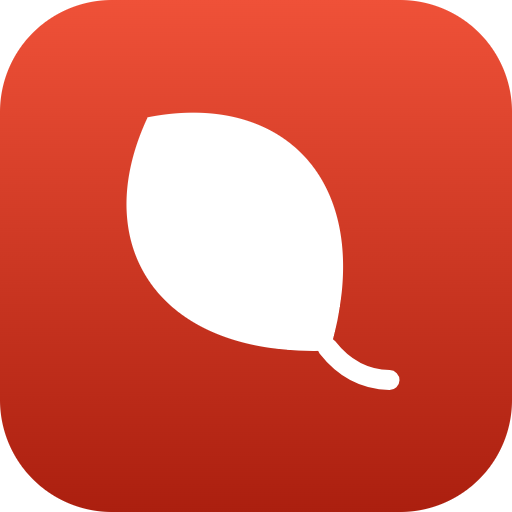
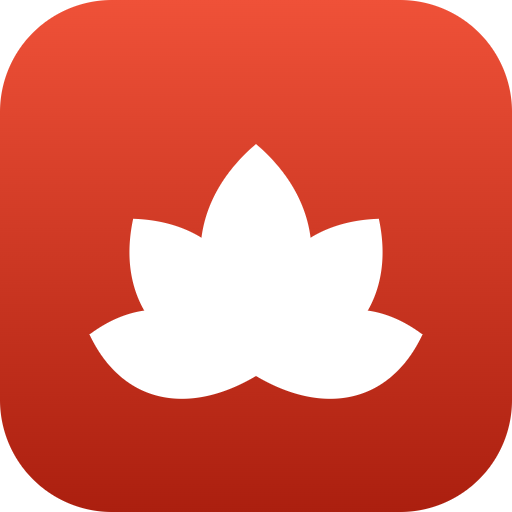
Pinch to zoom, and a lotus for the mark
Two fingers on the page now zoom it, and so does Ctrl with the wheel or
a trackpad pinch, which arrives as a wheel event with Ctrl held. Zooming
holds the point under the fingers still instead of keeping the scroll
fraction, so the page is pulled rather than jumped.

The gesture is caught on the scroller during capture, ahead of the
drawing handlers on the page layer, so a second finger turns a stroke
that had already begun into a pinch and removes what it had drawn. One
mouse notch is capped at the same 1.2 step as the zoom buttons: without
the cap a single notch leapt from 158% to 500%.

The mark is now a lotus in bloom: a centre petal with two pairs fanning
out from one base point. The petals are broad and cupped on purpose, as
narrow pointed ones radiating from a point read as a cannabis leaf,
which is what the seven petal version looked like.

Closing the window while the page is still loading now exits straight
away. It used to wait for an answer the renderer could not yet give and
then accuse the app of not responding.

Changed region(s): [[0.1562, 0.2188, 0.8438, 0.7812]]

diff --git a/src/tools/editor.ts b/src/tools/editor.ts
@@ -284,9 +284,9 @@ export const editorTool: Tool = {
       { class: 'ed-view' },
       pageLabel,
       h('span', { class: 'sep' }),
-      button(null, () => setZoom(zoom / 1.2), { icon: ZoomOut, title: 'Zoom out', kind: 'ghost' }),
+      button(null, () => setZoom(zoom / 1.2), { icon: ZoomOut, title: 'Zoom out (pinch, or Ctrl and the wheel)', kind: 'ghost' }),
       zoomLabel,
-      button(null, () => setZoom(zoom * 1.2), { icon: ZoomIn, title: 'Zoom in', kind: 'ghost' }),
+      button(null, () => setZoom(zoom * 1.2), { icon: ZoomIn, title: 'Zoom in (pinch, or Ctrl and the wheel)', kind: 'ghost' }),
       button('Fit', () => fitWidth(), { kind: 'ghost', title: 'Fit to width' }),
     );
     const tabsEl = h('div', { class: 'ed-tabs', role: 'tablist', 'aria-label': 'Open documents' });
@@ -813,6 +813,88 @@ export const editorTool: Tool = {
       const maxW = Math.max(...pages.map((p) => p.width), 1);
       setZoom(Math.min(2, (scroller.clientWidth - 48) / maxW));
     }
+
+    /**
+     * Zoom while holding the document point under (cx, cy) still, which is what
+     * makes a pinch feel like it is pulling the page rather than jumping.
+     */
+    function zoomAt(z: number, cx: number, cy: number) {
+      const next = Math.min(5, Math.max(0.25, z));
+      if (Math.abs(next - zoom) < 0.0005) return;
+      const r = scroller.getBoundingClientRect();
+      const k = next / zoom;
+      // Where the anchor currently sits inside the scrolled content.
+      const ax = scroller.scrollLeft + cx - r.left;
+      const ay = scroller.scrollTop + cy - r.top;
+      zoom = next;
+      zoomLabel.textContent = `${Math.round(zoom * 100)}%`;
+      pages.forEach(layoutPage);
+      scroller.scrollLeft = ax * k - (cx - r.left);
+      scroller.scrollTop = ay * k - (cy - r.top);
+      pages.filter(isVisible).forEach((p) => void draw(p));
+    }
+
+    /* ---------- pinch and ctrl+wheel zoom ---------- */
+
+    /** Live touch points, so two of them can be read as a pinch. */
+    const touchPoints = new Map<number, { x: number; y: number }>();
+    let pinch: { gap: number; zoom: number } | null = null;
+    const gapOf = (a: { x: number; y: number }, b: { x: number; y: number }) => Math.hypot(a.x - b.x, a.y - b.y);
+
+    /** Drop whatever the first finger had begun, so a pinch never leaves a mark. */
+    function cancelDrag() {
+      if (!drag) return;
+      const d = drag;
+      drag = null;
+      if (d.kind === 'rect' || d.kind === 'ink' || d.kind === 'line') {
+        anns = anns.filter((a) => a.id !== d.ann.id);
+      } else {
+        Object.assign(d.ann, d.orig);
+      }
+      renderLayer(pages[d.ann.page]);
+    }
+
+    // Captured on the scroller so a second finger is seen before the drawing
+    // handlers on the page layer get to act on it.
+    const onPinchDown = (e: PointerEvent) => {
+      if (e.pointerType !== 'touch') return;
+      touchPoints.set(e.pointerId, { x: e.clientX, y: e.clientY });
+      if (touchPoints.size !== 2) return;
+      const [a, b] = [...touchPoints.values()];
+      pinch = { gap: gapOf(a, b), zoom };
+      cancelDrag();
+      e.stopPropagation();
+    };
+    const onPinchMove = (e: PointerEvent) => {
+      if (e.pointerType !== 'touch' || !touchPoints.has(e.pointerId)) return;
+      touchPoints.set(e.pointerId, { x: e.clientX, y: e.clientY });
+      if (!pinch || touchPoints.size < 2 || pinch.gap <= 0) return;
+      e.preventDefault();
+      e.stopPropagation();
+      const [a, b] = [...touchPoints.values()];
+      zoomAt(pinch.zoom * (gapOf(a, b) / pinch.gap), (a.x + b.x) / 2, (a.y + b.y) / 2);
+    };
+    const onPinchUp = (e: PointerEvent) => {
+      if (e.pointerType !== 'touch') return;
+      touchPoints.delete(e.pointerId);
+      if (touchPoints.size < 2) pinch = null;
+    };
+    // A trackpad pinch reaches the page as a wheel event with ctrl held, which
+    // is also how Ctrl and the mouse wheel arrive. A trackpad sends a stream of
+    // small deltas while one mouse notch is a single large one, so the step is
+    // capped: without it a notch jumps several hundred percent at once.
+    const onZoomWheel = (e: WheelEvent) => {
+      if (!e.ctrlKey) return;
+      e.preventDefault();
+      const px = e.deltaMode === 1 ? e.deltaY * 16 : e.deltaMode === 2 ? e.deltaY * 400 : e.deltaY;
+      const step = Math.max(-40, Math.min(40, px));
+      zoomAt(zoom * Math.exp(-step / 200), e.clientX, e.clientY);
+    };
+    scroller.addEventListener('pointerdown', onPinchDown, { capture: true });
+    scroller.addEventListener('pointermove', onPinchMove, { capture: true, passive: false });
+    scroller.addEventListener('pointerup', onPinchUp, { capture: true });
+    scroller.addEventListener('pointercancel', onPinchUp, { capture: true });
+    scroller.addEventListener('wheel', onZoomWheel, { passive: false });
 
     function updatePageLabel() {
       const s = scroller.getBoundingClientRect();
@@ -1781,6 +1863,11 @@ export const editorTool: Tool = {
       document.removeEventListener('keydown', onKey);
       document.removeEventListener('pointerup', onPointerUp);
       window.removeEventListener('resize', onResize);
+      scroller.removeEventListener('pointerdown', onPinchDown, { capture: true });
+      scroller.removeEventListener('pointermove', onPinchMove, { capture: true });
+      scroller.removeEventListener('pointerup', onPinchUp, { capture: true });
+      scroller.removeEventListener('pointercancel', onPinchUp, { capture: true });
+      scroller.removeEventListener('wheel', onZoomWheel);
       window.removeEventListener('beforeunload', onBeforeUnload);
       clearUnsavedGuard(guard);
       void rememberSession(true);
